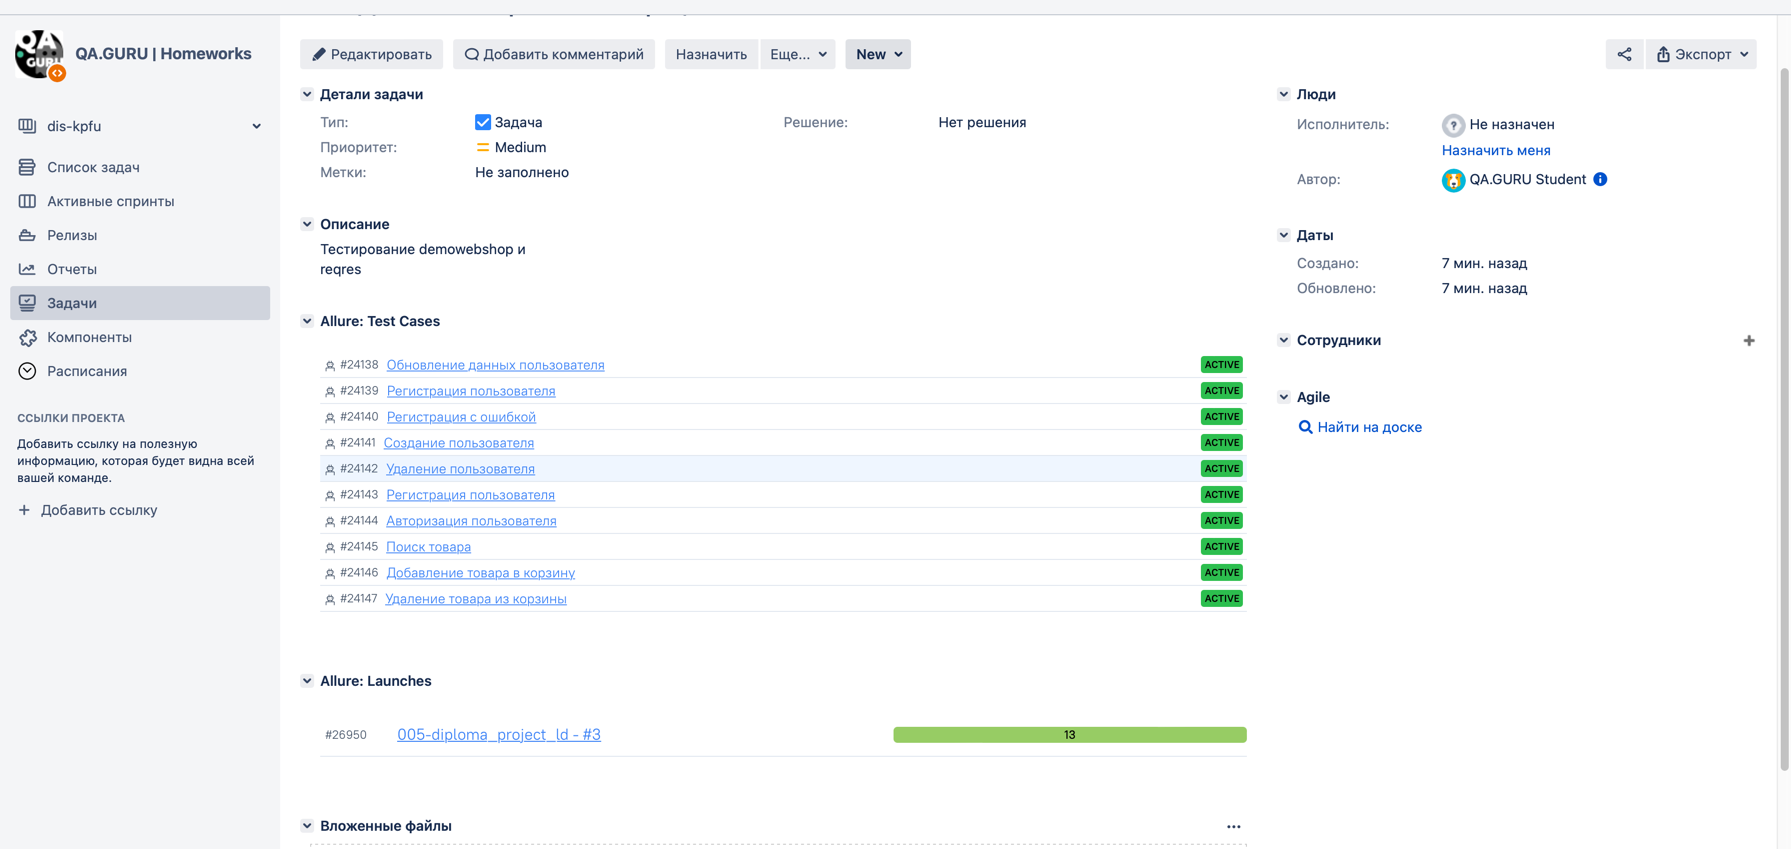
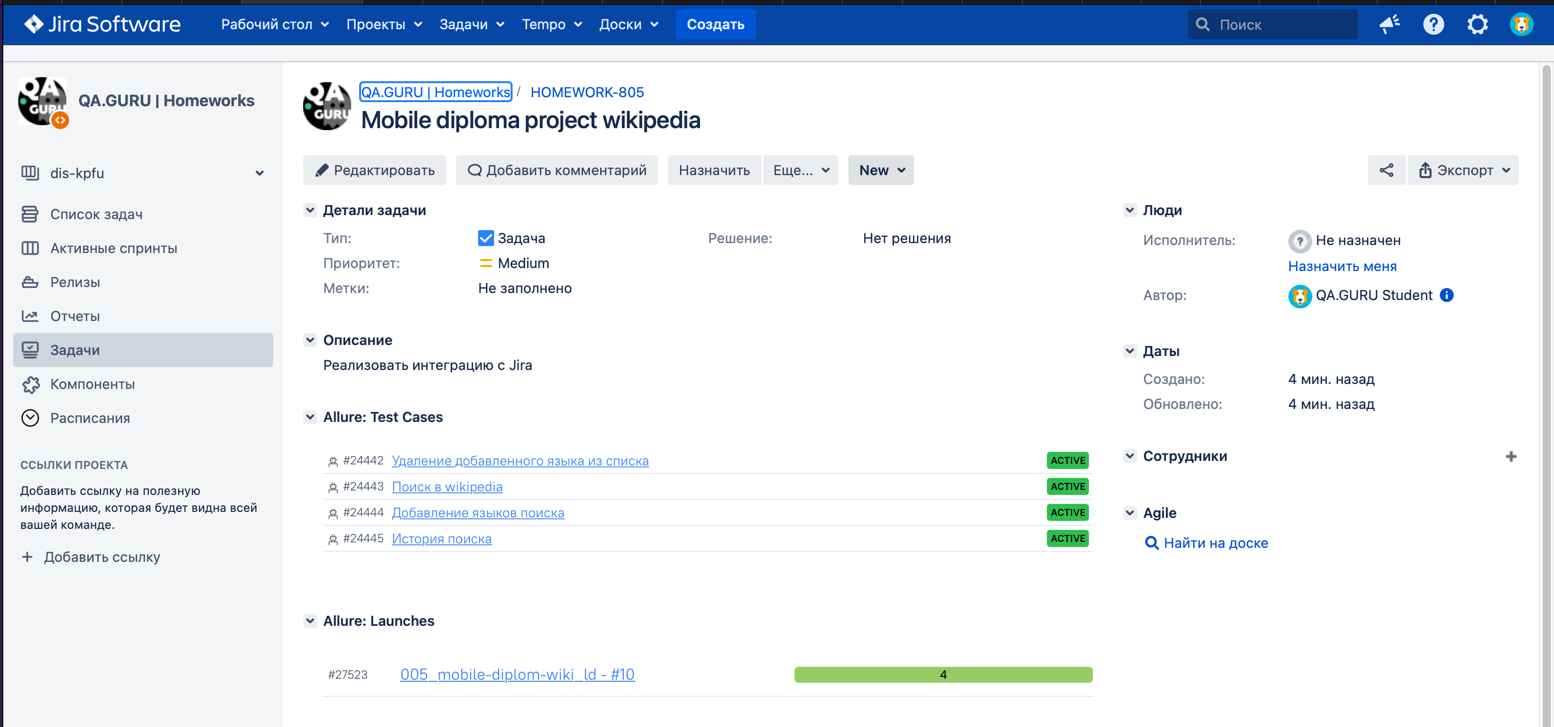
added screenshot

diff --git a/README.md b/README.md
@@ -24,14 +24,14 @@
 
 ## Покрытый функционал
 
-- [x] Работа поиска
+- [x] Поиск
 - [x] Сохранение результатов поиска
 - [x] Добавление языка
 - [x] Удаление языка 
 
 ## Запуск тестов
 
-### [Запуск проекта в Jenkins](https://jenkins.autotests.cloud/)
+### [Запуск проекта в Jenkins](https://jenkins.autotests.cloud/job/005_mobile-diplom-wiki_ld/)
 
 Для запуска тестов выбрать "Собрать сейчас"
 
@@ -43,11 +43,11 @@
 
 ### __Примеры Allure отчётов:__ 
 
-#### [Allure Report](https://jenkins.autotests.cloud/job/005-diploma_project_ld/8/allure/)
+#### [Allure Report](https://jenkins.autotests.cloud/job/005_mobile-diplom-wiki_ld/10/allure/)
 
-UI-тесты
+Отображение тестоов в allure
 
-![Allure UI](/images/screenshot/ui.png)
+![Allure UI](/images/screenshot/allure.png)
 
 
 Пример видео прохождения теста
@@ -55,10 +55,10 @@ UI-тесты
 ![Allure vid](/images/screenshot/video_test.gif)
 
 ### __Интеграции с другими сервисами:__ 
-[Allure TestOps](https://allure.autotests.cloud/launch/26950/tree?treeId=6826&search=)
+[Allure TestOps](https://allure.autotests.cloud/project/3543/launches)
 
 ![Allure TestOps](/images/screenshot/allureTestOps.png)
 
-[Jira](https://jira.autotests.cloud/browse/HOMEWORK-783)
+[Jira](https://jira.autotests.cloud/browse/HOMEWORK-805)
 
 ![Allure TestOps](/images/screenshot/jira.png)
